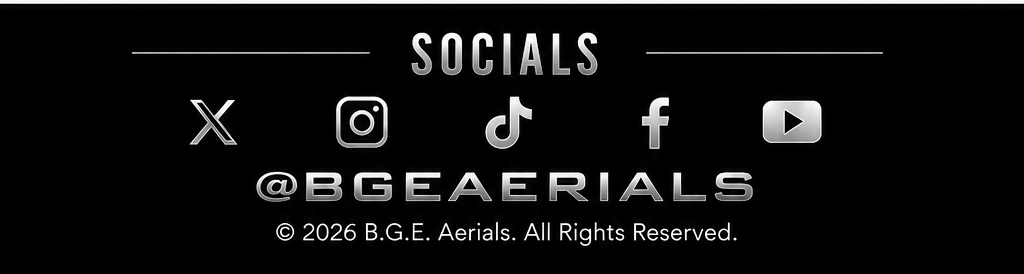
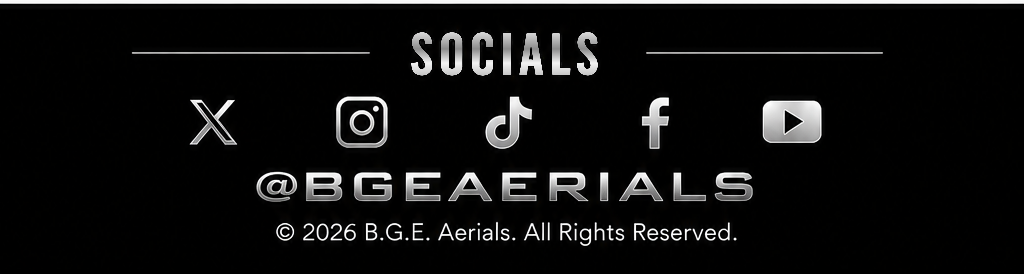
Apply final responsive site fixes

Changed region(s): [[0.375, 0.1168, 0.5938, 0.292]]

diff --git a/contact-tablet-metallic-socials.css b/contact-tablet-metallic-socials.css
@@ -1,74 +1,54 @@
 /* ============================================================
    B.G.E. AERIALS — CONTACT TABLET METALLIC "SOCIALS"
    Scope: Contact page + tablets only, portrait and landscape.
-
-   Matches the silver-metallic typography used throughout the
-   site while leaving the footer icons, handle, copyright,
-   page layouts, desktop, and mobile untouched.
    ============================================================ */
 
 @media screen and (min-width:768px) and (max-width:1366px) and (pointer:coarse) {
-
   .tablet-contact-footer .socials-title{
     font-family:Impact,"Arial Narrow Bold","Arial Narrow",Arial,sans-serif !important;
     font-weight:400 !important;
     letter-spacing:.13em !important;
     color:#d8d8d8 !important;
-
-    background:
-      linear-gradient(
-        180deg,
-        #ffffff 0%,
-        #d4d4d4 22%,
-        #8b8b8b 46%,
-        #f3f3f3 68%,
-        #a7a7a7 100%
-      ) !important;
-
+    background:linear-gradient(180deg,#fff 0%,#d4d4d4 22%,#8b8b8b 46%,#f3f3f3 68%,#a7a7a7 100%) !important;
     -webkit-background-clip:text !important;
     background-clip:text !important;
     -webkit-text-fill-color:transparent !important;
-
-    text-shadow:
-      0 1px 0 rgba(255,255,255,.16),
-      0 2px 4px rgba(0,0,0,.82) !important;
+    text-shadow:0 1px 0 rgba(255,255,255,.16),0 2px 4px rgba(0,0,0,.82) !important;
   }
-
   .tablet-contact-footer .socials-title::before,
   .tablet-contact-footer .socials-title::after{
-    background:
-      linear-gradient(
-        90deg,
-        #666 0%,
-        #f8f8f8 48%,
-        #8a8a8a 100%
-      ) !important;
+    background:linear-gradient(90deg,#666 0%,#f8f8f8 48%,#8a8a8a 100%) !important;
     box-shadow:0 0 6px rgba(255,255,255,.18) !important;
   }
-
   .tablet-contact-footer .tablet-contact-handle{
+    display:inline-block !important;
     font-family:Impact,"Arial Narrow Bold","Arial Narrow",Arial,sans-serif !important;
     font-weight:400 !important;
-    letter-spacing:.08em !important;
+    letter-spacing:.13em !important;
     text-transform:uppercase !important;
     color:#d8d8d8 !important;
-
-    background:
-      linear-gradient(
-        180deg,
-        #ffffff 0%,
-        #d7d7d7 20%,
-        #8c8c8c 45%,
-        #f5f5f5 67%,
-        #a8a8a8 100%
-      ) !important;
-
+    transform:scaleX(1.18) !important;
+    transform-origin:center center !important;
+    background:linear-gradient(180deg,#fff 0%,#d7d7d7 20%,#8c8c8c 45%,#f5f5f5 67%,#a8a8a8 100%) !important;
     -webkit-background-clip:text !important;
     background-clip:text !important;
     -webkit-text-fill-color:transparent !important;
-
-    text-shadow:
-      0 1px 0 rgba(255,255,255,.16),
-      0 2px 4px rgba(0,0,0,.82) !important;
+    text-shadow:0 1px 0 rgba(255,255,255,.16),0 2px 4px rgba(0,0,0,.82) !important;
+  }
+  .tablet-contact-footer .tablet-social-row{
+    gap:clamp(28px,5.5vw,70px) !important;
+    margin:8px 0 5px !important;
+  }
+  .tablet-contact-footer .tablet-social-row a{
+    width:44px !important;
+    height:44px !important;
+  }
+  .tablet-contact-footer .tablet-social-row img{
+    display:block !important;
+    width:auto !important;
+    height:auto !important;
+    max-width:38px !important;
+    max-height:38px !important;
+    object-fit:contain !important;
   }
 }

diff --git a/contact.html b/contact.html
@@ -795,7 +795,7 @@
         max-width:7.2em!important;
         font-size:clamp(56px,8vw,88px)!important;
         line-height:.91!important;
-        letter-spacing:-.025em!important;
+        letter-spacing:0!important;
       }
       .tablet-contact-copy p{
         max-width:34em!important;
@@ -842,7 +842,7 @@
         .tablet-contact-main{grid-template-columns:1fr!important;grid-template-rows:minmax(0,43%) minmax(0,57%)!important;height:100%!important;min-height:0!important;}
         .tablet-contact-visual{min-height:0!important;background-image:url('assets/contact-tablet-hero.jpg')!important;background-position:center 51%!important;background-size:cover!important;background-repeat:no-repeat!important;}
         .tablet-contact-copy{display:block!important;top:7.5%!important;left:6.3%!important;right:6.3%!important;color:#050505!important;text-shadow:none!important;}
-        .tablet-contact-copy h1{margin:0 0 14px!important;max-width:7.2em!important;font-size:clamp(56px,8vw,88px)!important;line-height:.91!important;letter-spacing:-.025em!important;}
+        .tablet-contact-copy h1{margin:0 0 14px!important;max-width:7.2em!important;font-size:clamp(56px,8vw,88px)!important;line-height:.91!important;letter-spacing:0!important;}
         .tablet-contact-copy p{max-width:34em!important;margin:0!important;font-size:clamp(15px,1.9vw,21px)!important;line-height:1.36!important;font-weight:700!important;}
         .tablet-contact-panel{min-height:0!important;align-items:center!important;padding:clamp(14px,1.7vh,22px) 6.2vw!important;overflow:hidden!important;}
         .tablet-contact-form{grid-template-columns:1fr 1fr!important;gap:clamp(7px,.9vh,11px) 16px!important;align-content:center!important;}
